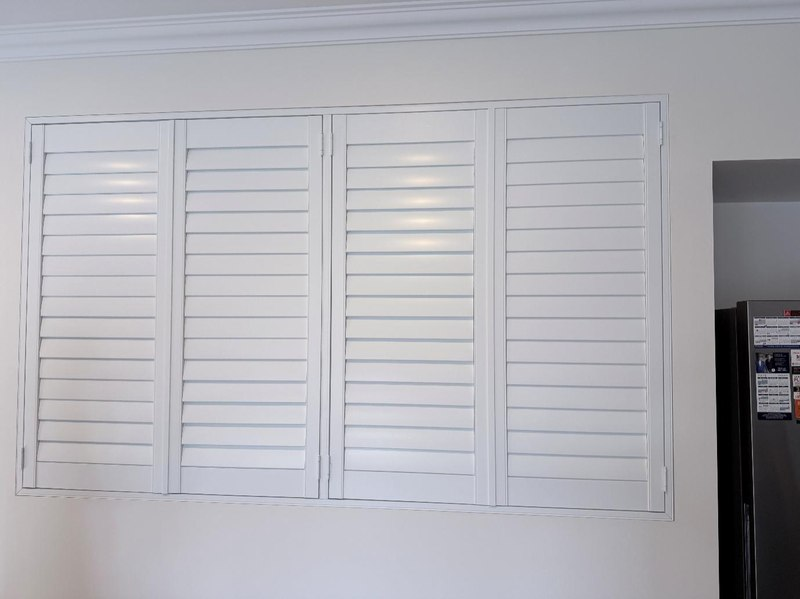
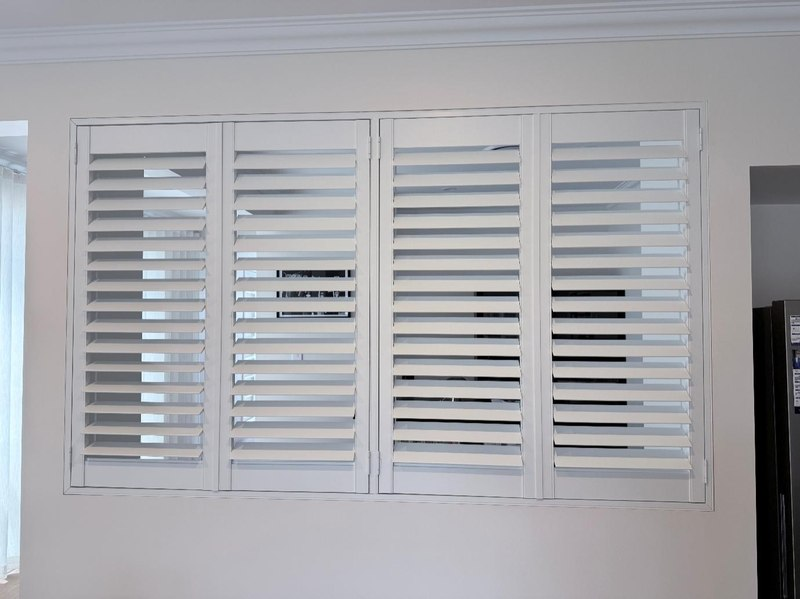
Add files via upload

diff --git a/nav.js b/nav.js
@@ -64,7 +64,6 @@ body{font-family:'Nunito',sans-serif;color:#2d2d2d;background:#fff;}
         <a href="${BASE}/curtains.html#sfold">S-Fold</a>
         <a href="${BASE}/curtains.html#double-pinch">Double Pinch Pleat</a>
         <a href="${BASE}/curtains.html#triple-pinch">Triple Pinch Pleat</a>
-        <a href="${BASE}/curtains.html#box-pleat">Box Pleat</a>
         <a href="${BASE}/curtains.html#eyelet">Eyelet</a>
       </div>
     </li>
@@ -119,7 +118,6 @@ body{font-family:'Nunito',sans-serif;color:#2d2d2d;background:#fff;}
       <a href="${BASE}/curtains.html#sfold">S-Fold</a>
       <a href="${BASE}/curtains.html#double-pinch">Double Pinch Pleat</a>
       <a href="${BASE}/curtains.html#triple-pinch">Triple Pinch Pleat</a>
-      <a href="${BASE}/curtains.html#box-pleat">Box Pleat</a>
       <a href="${BASE}/curtains.html#eyelet">Eyelet</a>
     </div>
   </div>

diff --git a/shutters.html b/shutters.html
@@ -93,7 +93,7 @@ footer{background:var(--navy-dark);color:rgba(255,255,255,0.7);padding:60px 5vw 
 <div class="product-section">
   <div class="product-inner">
     <div class="product-visual">
-      <img src="/ucurtains/smart-blind.jpg" alt="PVC Shutters Brisbane - U Curtains" loading="lazy">
+      <img src="/ucurtains/pvc-shutter.jpg" alt="PVC Shutters Brisbane - U Curtains" loading="lazy">
       <div class="product-visual-label">PVC Shutters</div>
     </div>
     <div class="product-info">
